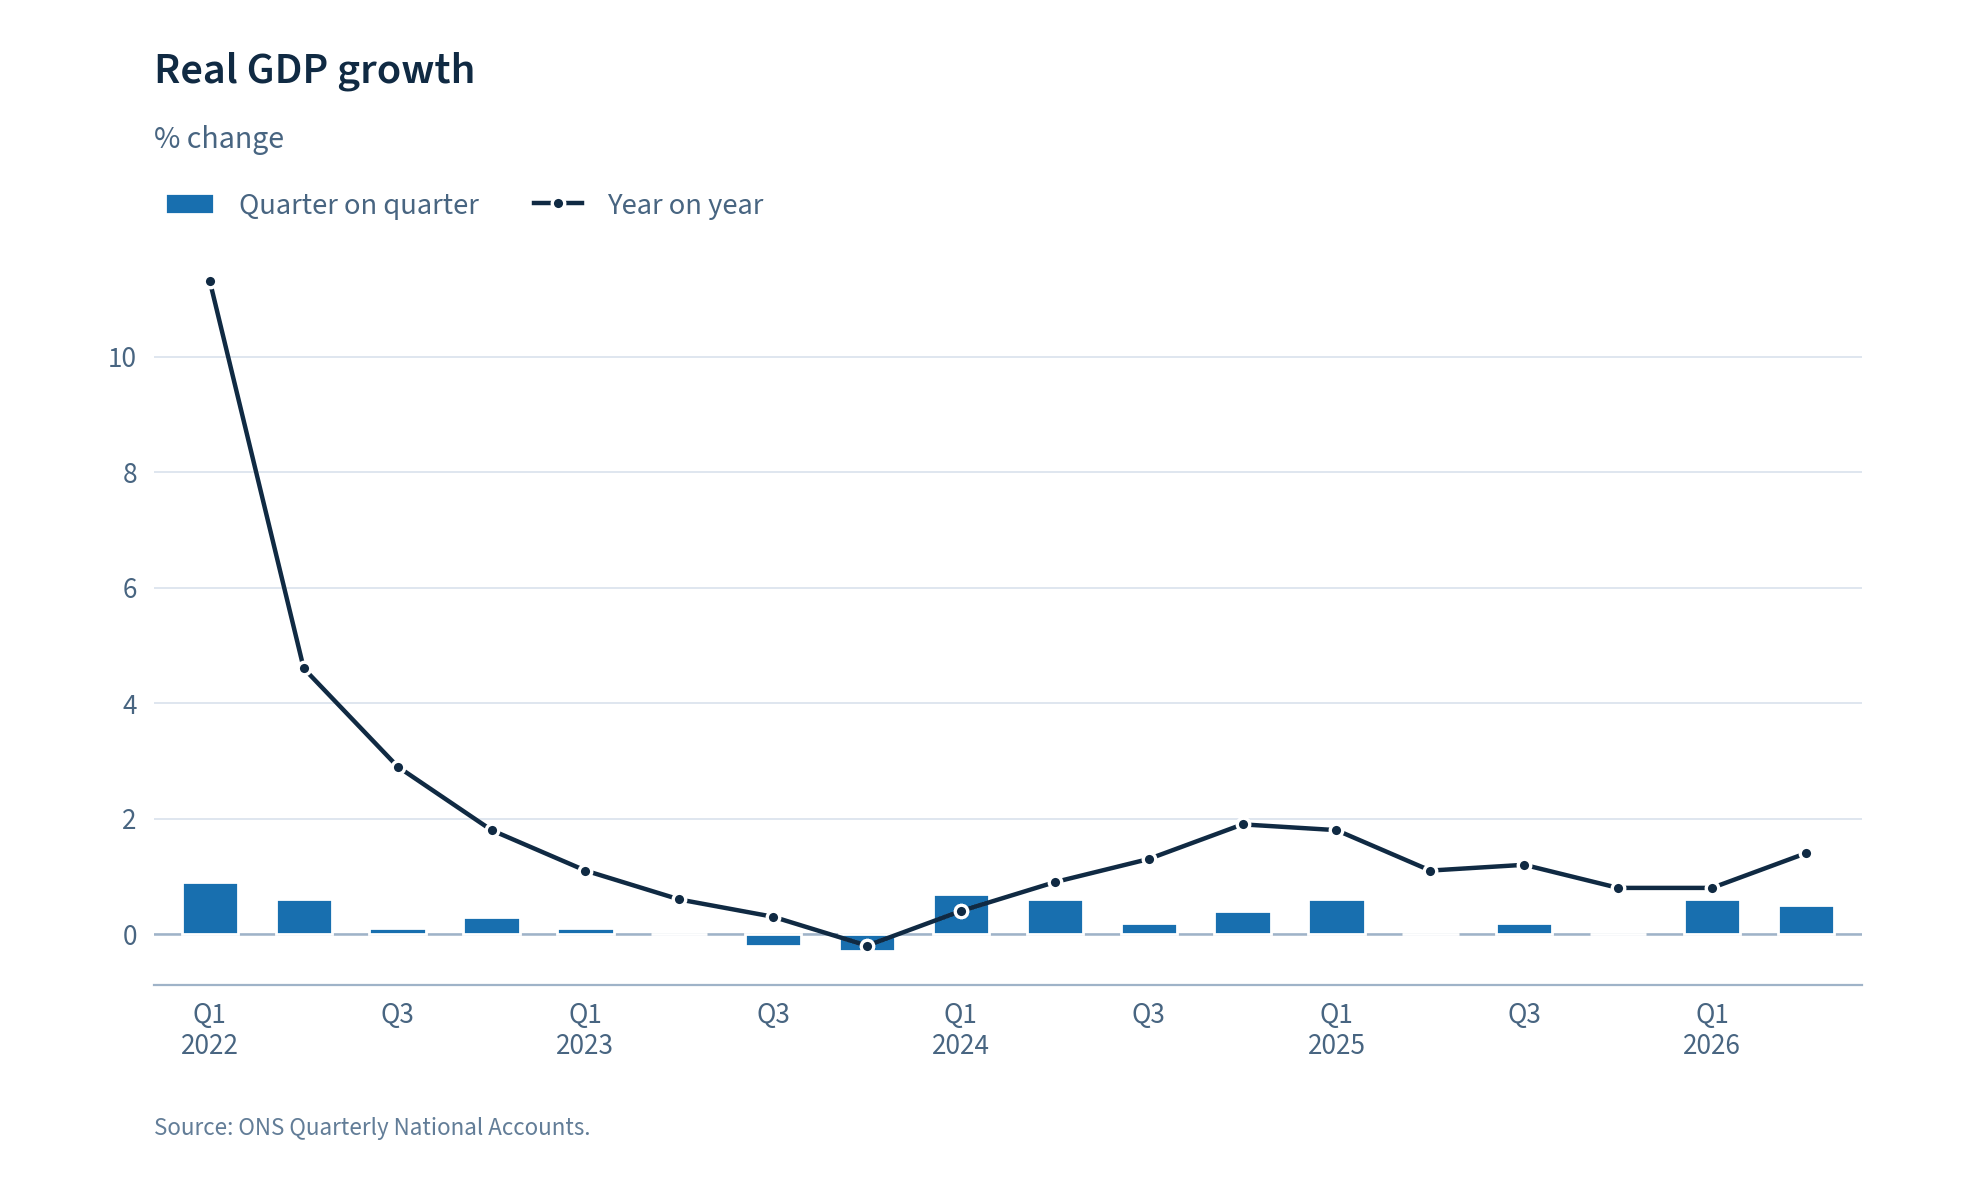
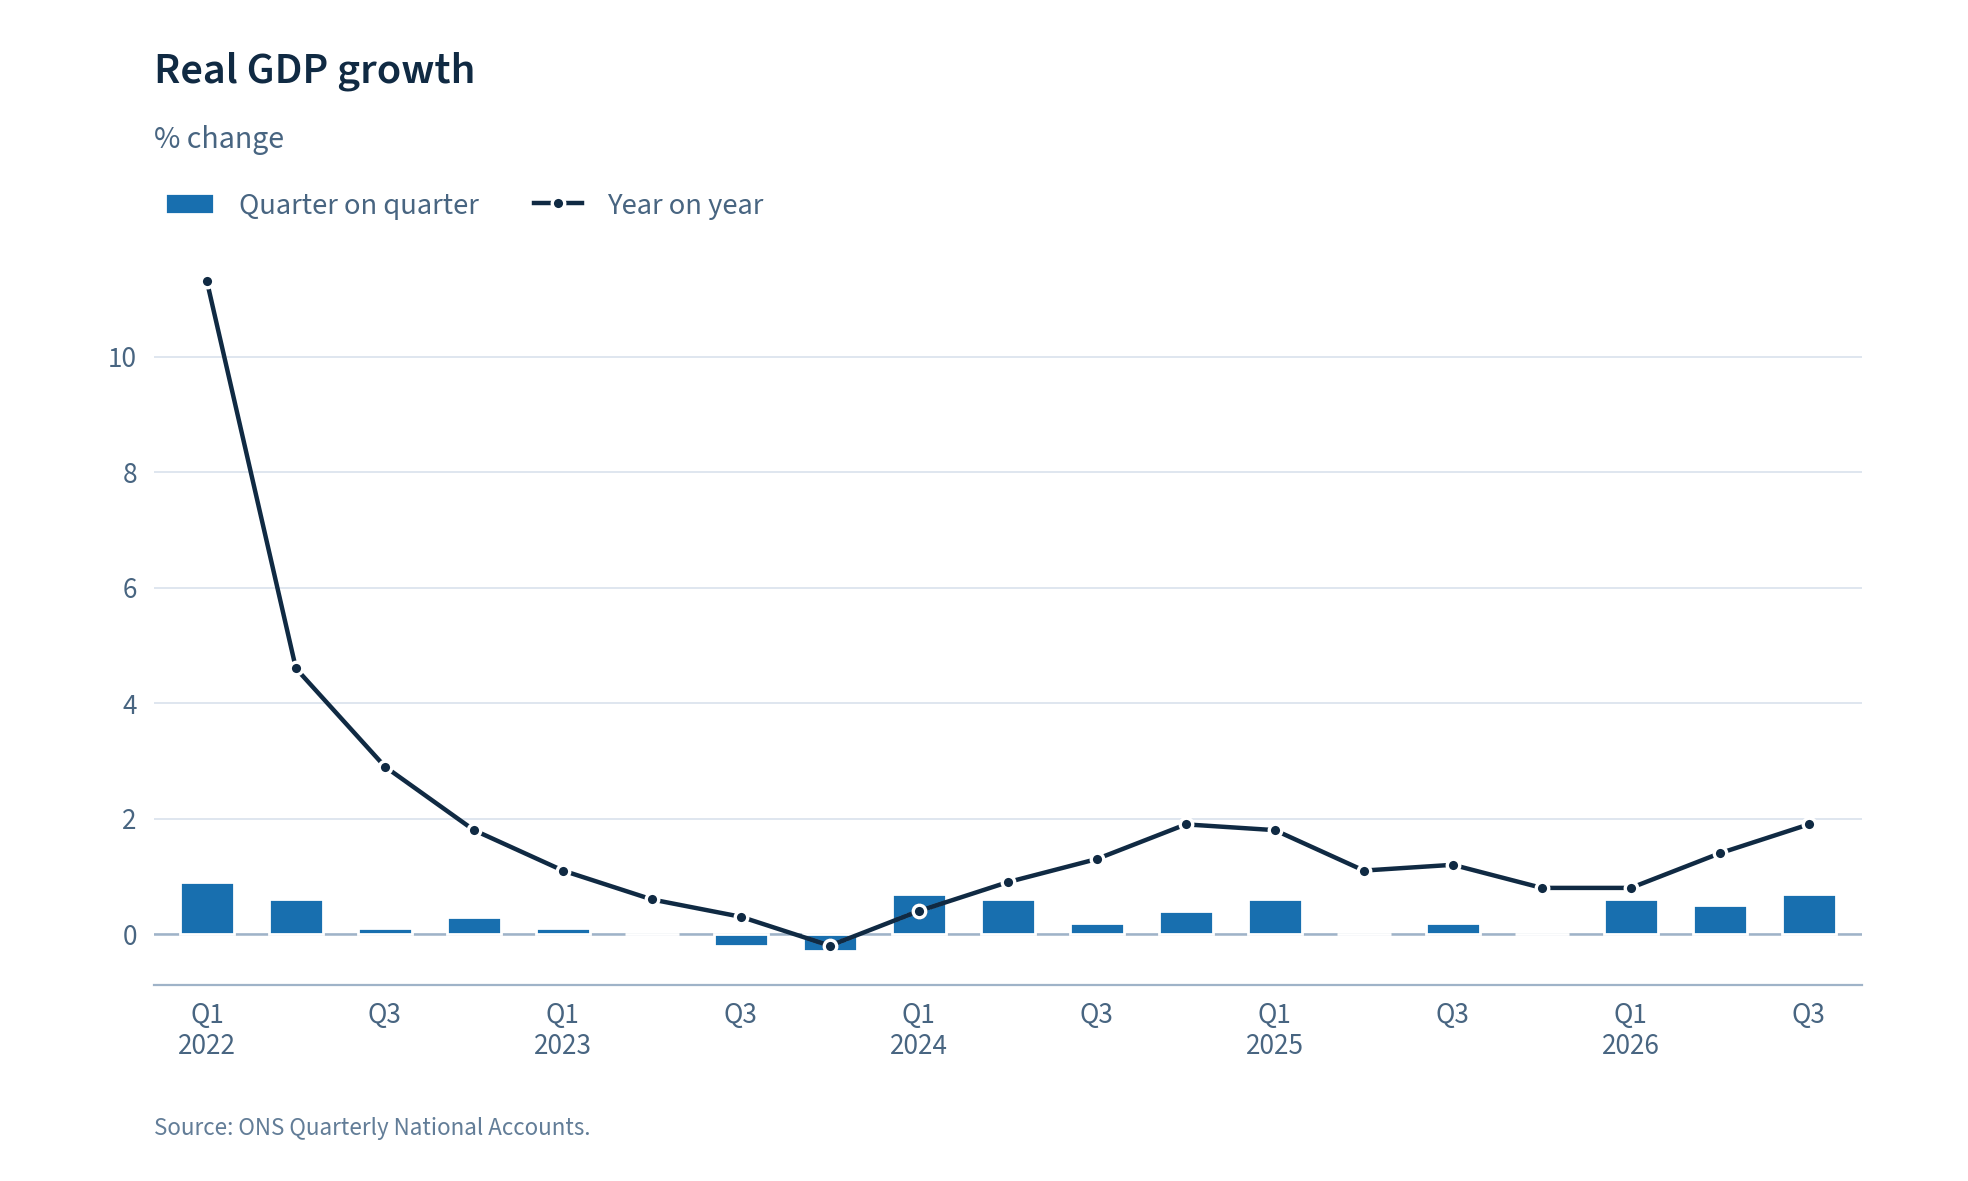
GDP and business investment: read ONS dataset PN2, flag missed releases
QNA only gains a new quarter at the Quarterly National Accounts, about six
weeks after the GDP first estimate, so the 12 Nov Q3 estimate never showed
up. PN2 is refreshed at every GDP release. The builder now also fails the job
when a source's stated next-release date has passed without new data.

diff --git a/ukmacro/builder.py b/ukmacro/builder.py
@@ -153,6 +153,14 @@ def build_chart(chart: dict, category: str, lg: LastGood, failures: list[str]) -
     dates = sorted({d for col in columns.values() for d in col})
     data = [{"date": d, **{k: col.get(d) for k, col in columns.items()}} for d in dates]
     upcoming = sorted(r for r in releases if r >= date.today().isoformat())
+    # Missed-release check: if a source still says its next release is a date that
+    # has already passed, we are almost certainly reading a copy of the series that
+    # wasn't updated (e.g. ONS dataset QNA instead of PN2 after a GDP first estimate).
+    # Count it as a failure so the job goes red rather than quietly showing old data.
+    missed = sorted({r for r in releases if r < date.today().isoformat()})
+    if missed:
+        failures.append(f"{chart['slug']}: source said new data due {', '.join(missed)} "
+                        "but still shows the old data (check the dataset code)")
     trend = None
     if chart.get("trend") and chart.get("type") == "scatter":
         pts, _ = charts.scatter_points({"series": series, "data": data})  # [(date, x, y)] where both exist
